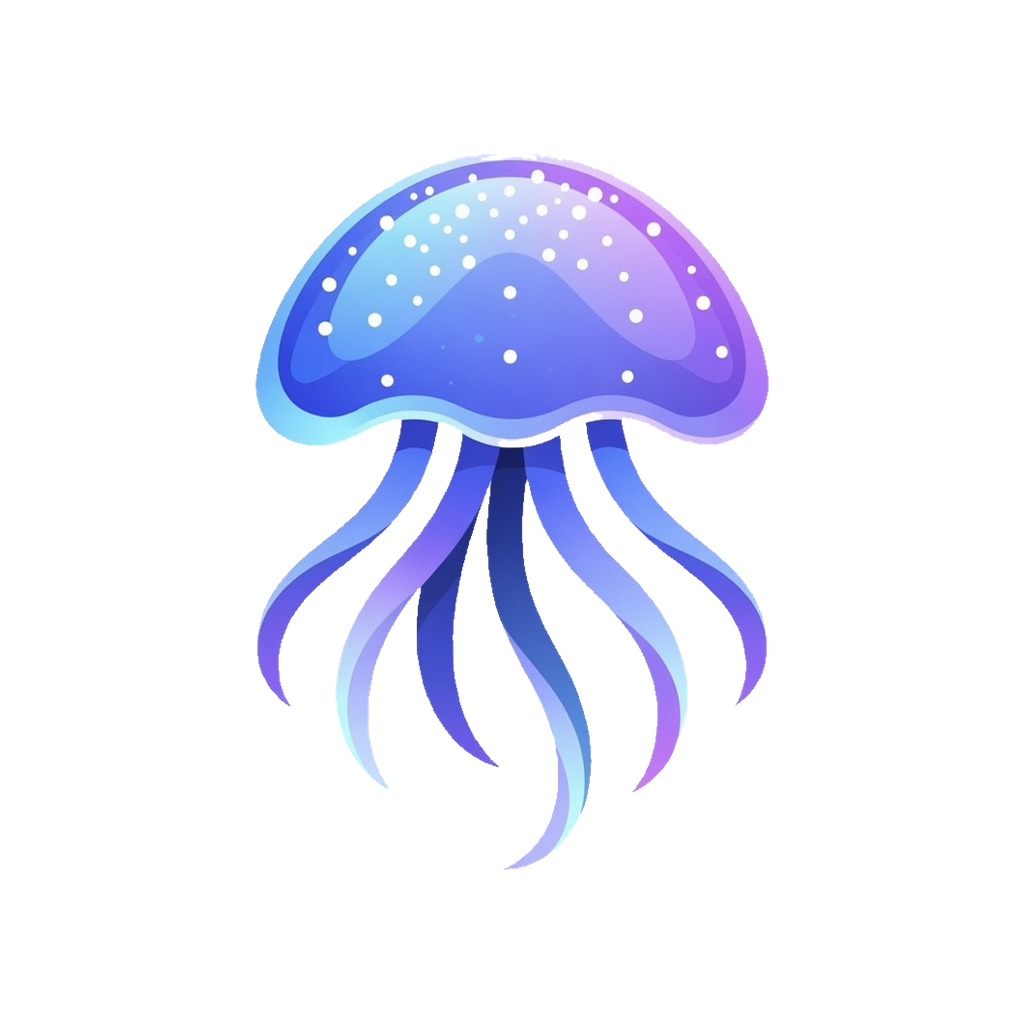
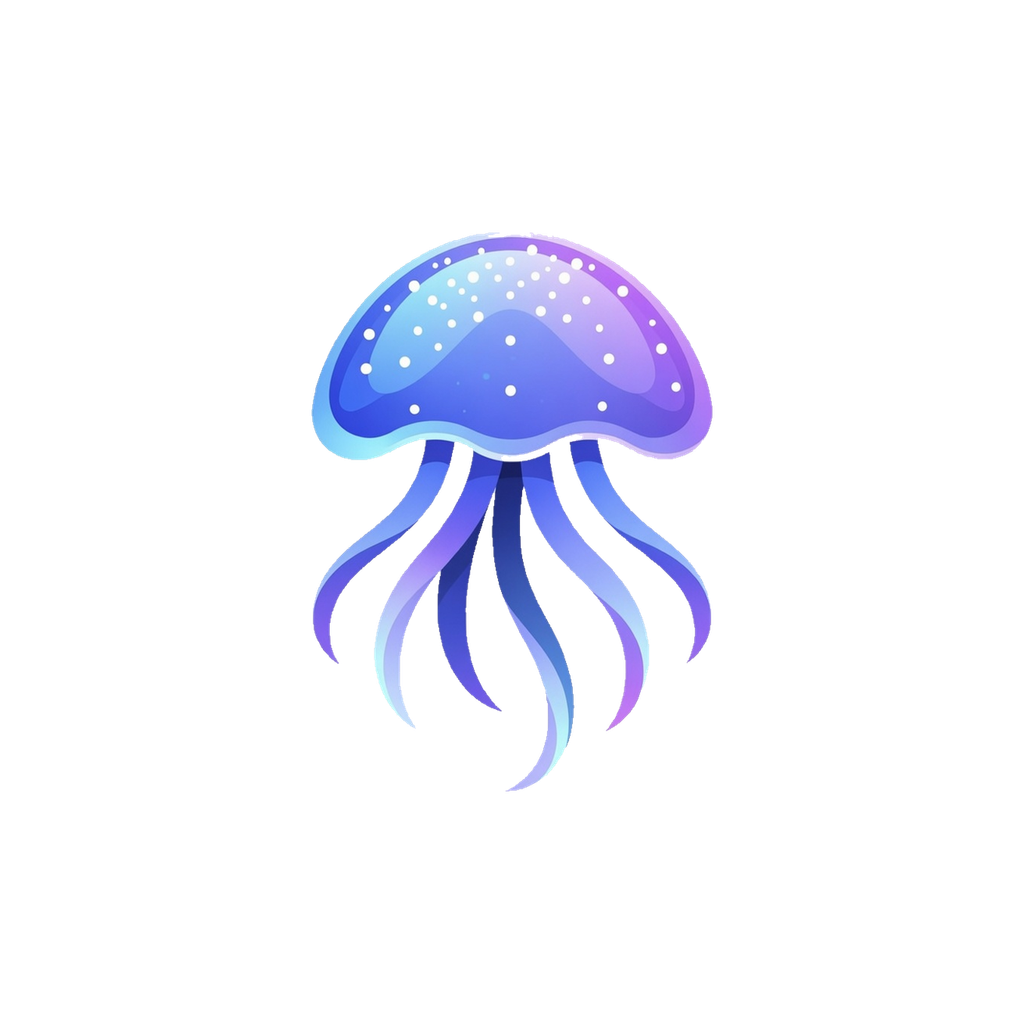
fix(desktop): 调整 macOS 桌面图标显示
### What
- 为 Dock 图标加入内缩白色圆角背景，避免图标在扩展坞中显得过大
- 新增独立的 macOS menu bar template 图标资源
- 托盘入口改用白色 template 图标并调整显示尺寸为 16px

### Why
- 避免 Dock 图标白色背景顶满画布导致视觉比例异常
- 避免 menu bar 图标复用应用图标产生白条和尺寸偏大的问题

Changed region(s): [[0.25, 0.1562, 0.75, 0.8438]]

diff --git a/apps/desktop/src/main/automation/tray.ts b/apps/desktop/src/main/automation/tray.ts
@@ -1,6 +1,6 @@
 // 系统托盘:关窗后应用驻留后台时的入口。左键单击唤起菜单栏 Spotlight 浮动框,
 // 左键双击打开主窗口,右键弹出菜单（显示主窗口 / 退出）。让定时任务在窗口关闭后仍能触发。
-// 图标暂复用应用图标。
+// menu bar 使用独立的 template 图标,避免受 Dock/app icon 背景影响。
 
 import { Menu, Tray, nativeImage } from "electron";
 import { app } from "electron";
@@ -13,7 +13,7 @@ let clickTimer: ReturnType<typeof setTimeout> | null = null;
 const DOUBLE_CLICK_MS = 250;
 
 function trayIconPath(): string {
-  const name = "cortex-neuron-icon.png";
+  const name = "cortex-tray-iconTemplate.png";
   return app.isPackaged
     ? join(app.getAppPath(), "assets", name)
     : join(__dirname, "../../assets", name);
@@ -26,7 +26,10 @@ export function createTray(opts: {
 }): void {
   if (tray) return;
   let image = nativeImage.createFromPath(trayIconPath());
-  if (!image.isEmpty()) image = image.resize({ width: 18, height: 18 });
+  if (!image.isEmpty()) {
+    image = image.resize({ width: 16, height: 16 });
+    if (process.platform === "darwin") image.setTemplateImage(true);
+  }
   tray = new Tray(image);
   tray.setToolTip("Cortex Desktop");
   const menu = Menu.buildFromTemplate([
